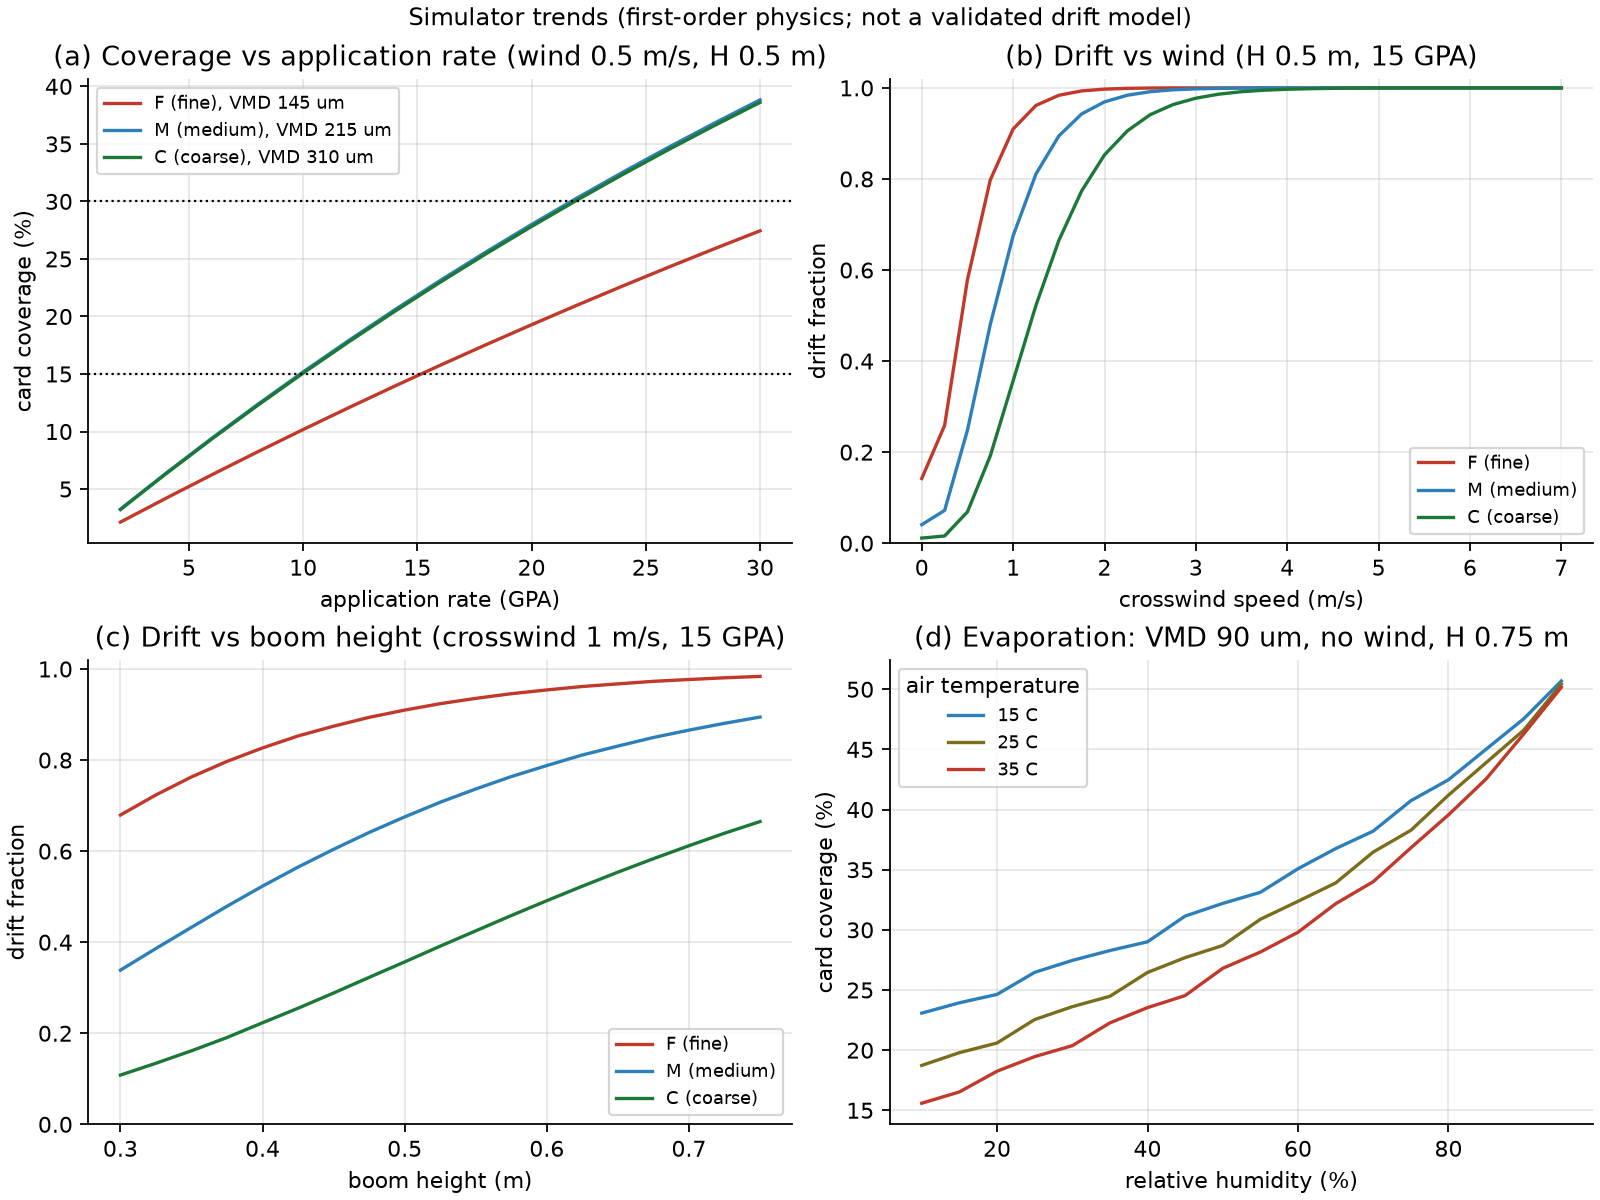
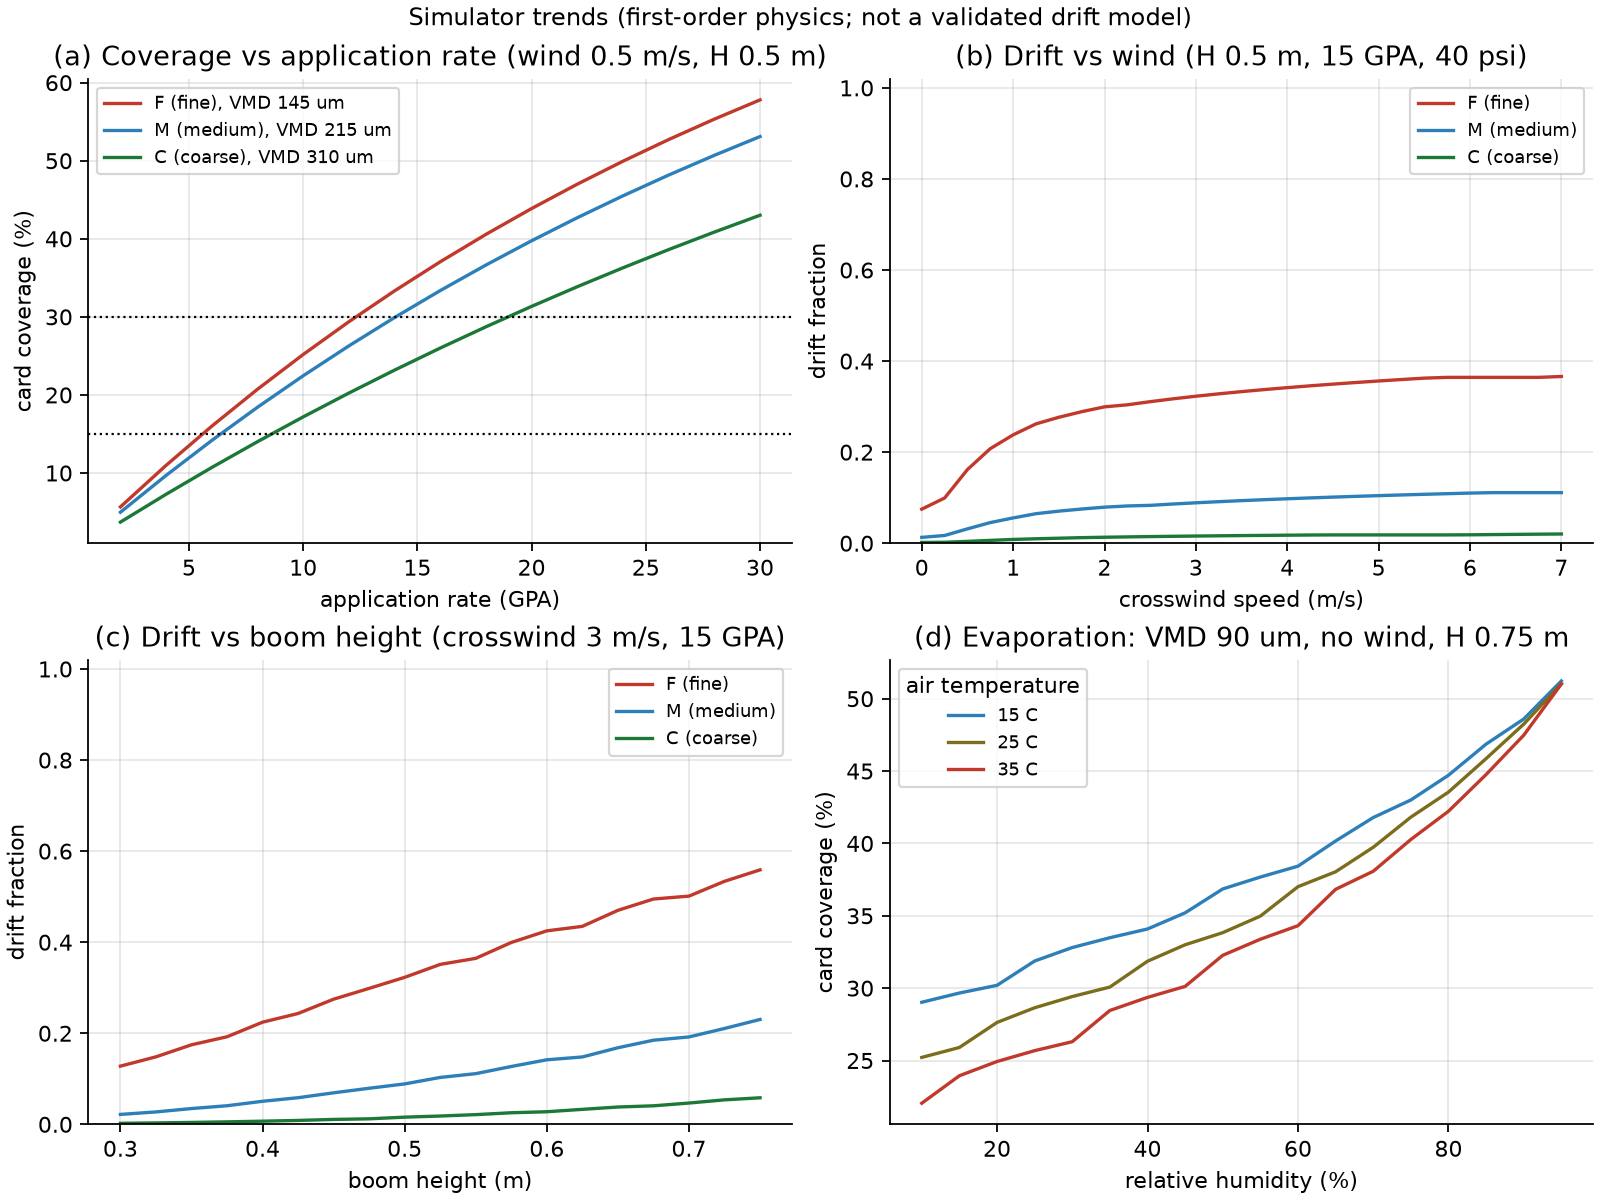
WP-02b: nozzle exit velocity with linear-drag relaxation (decision D10)
Fall time and lateral displacement from z(t), x(t) with v0 = 0.6 sqrt(2P/rho);
evaporation via penetration phase plus closed-form settling. Anchor tests,
refreshed trend figure.

diff --git a/src/coverageai/physics/drift.py b/src/coverageai/physics/drift.py
@@ -1,15 +1,91 @@
-"""Drift and pattern displacement (first-order).
+"""Drift and pattern displacement (first-order, decision D10).
 
-A droplet falling for t seconds in a steady wind is displaced x = U * t, where
-t = H / Vt (with shrinking diameter, see evaporation.py). Cross-track displacement
-x_c = U_cross t decides drift: the volume fraction with |x_c| > threshold is drift.
-The along-track component x_a = U_along t only enters the reported pattern shift.
+Droplets leave the nozzle at v0 = coeff * sqrt(2 P / rho_w) (coeff 0.6, ~14 m/s at 40 psi)
+with zero lateral velocity, and relax toward terminal velocity Vt and wind speed U under
+linear drag with time constant tau = Vt / g:
+    z(t) = Vt t + (v0 - Vt) tau (1 - exp(-t/tau))        (fall, downward)
+    x(t) = U (t - tau (1 - exp(-t/tau)))                  (lateral, per wind component)
+The fall time t_f solves z(t_f) = H (Newton, monotone). Cross-track displacement
+x_c = x(t_f) with U_cross decides drift: the volume fraction with |x_c| > threshold is
+drift. The along-track component only enters the reported pattern shift.
+Fine droplets (small tau, small v0 tau penetration) spend most of H settling at Vt and
+drift; medium and coarse droplets cross H in tens of ms and barely move.
 To avoid a staircase in the 40-bin discretization, the in/out decision is a linear
 ramp in ln(x) over each bin's own ln(x) span (exact for a locally log-linear x(d)).
 """
 from __future__ import annotations
 
 import numpy as np
+
+from coverageai.config import spec
+from coverageai.physics.droplets import terminal_velocity
+from coverageai.physics.evaporation import fall_with_evaporation
+
+PHASE_TAUS = 3.0     # near-nozzle penetration phase lasts this many tau
+
+
+def exit_velocity(pressure_psi, coeff: float, rho_w: float):
+    """Nozzle exit velocity v0 = coeff * sqrt(2 P / rho_water), m/s."""
+    return coeff * np.sqrt(2.0 * np.asarray(pressure_psi, float) * 6894.757 / rho_w)
+
+
+def fall_with_exit_velocity(d0_um, height_m, v0, lam, u_cross, u_along):
+    """Fall of droplets from the nozzle through H with exit velocity and evaporation.
+
+    Arrays broadcast to (N, B); height, v0, lam, u_* are (N, 1). Returns
+    (d_final um, t_fall s, alive, x_cross m, x_along m).
+
+    Evaporation approximation: tau and the relaxation use the initial diameter d0. If the
+    droplet reaches H inside the penetration phase (first 3 tau), the d^2 law is applied
+    over the exact fall time. Otherwise the phase is flown at d0 (diameter shrunk by the
+    d^2 law over 3 tau), and the remaining height H - z(3 tau) is settled with the exact
+    closed-form evaporating-settling solution (evaporation.fall_with_evaporation); the
+    lateral displacement is x(3 tau) plus U times the settling time (the residual 5 % of
+    the exit-velocity and wind lag at 3 tau is ignored).
+    """
+    g = spec()["physics"]["gravity_m_s2"]
+    d0 = np.asarray(d0_um, float)
+    vt = terminal_velocity(d0)
+    tau = vt / g
+    h = np.broadcast_to(np.asarray(height_m, float), d0.shape)
+    v0 = np.broadcast_to(np.asarray(v0, float), d0.shape)
+    lam = np.broadcast_to(np.asarray(lam, float), d0.shape)
+    dv = v0 - vt
+    # exact fall time without evaporation: Newton on z(t) = H, started at H / v0
+    t = h / v0
+    for _ in range(14):
+        e = np.exp(-t / tau)
+        z = vt * t + dv * tau * (1.0 - e)
+        t = np.maximum(t - (z - h) / (vt + dv * e), 1e-9)
+    t_ex = t
+
+    def lateral(u, tt):
+        return u * (tt - tau * (1.0 - np.exp(-tt / tau)))
+
+    t3 = PHASE_TAUS * tau
+    e3 = np.exp(-PHASE_TAUS)
+    z3 = vt * t3 + dv * tau * (1.0 - e3)
+    in_phase = z3 >= h
+
+    # A: reaches H within the penetration phase
+    d_a2 = d0 * d0 - lam * t_ex
+    alive_a = d_a2 > 1.0
+    d_a = np.sqrt(np.maximum(d_a2, 0.0))
+    # B: penetration phase, then evaporating settling over the remaining height
+    d1_2 = d0 * d0 - lam * t3
+    alive_1 = d1_2 > 1.0
+    d1 = np.sqrt(np.maximum(d1_2, 1.0))
+    h_rem = np.where(in_phase, 1.0, h - z3)
+    d_b, t_s, alive_b = fall_with_evaporation(d1, h_rem, lam)
+    t_b = t3 + t_s
+
+    d_f = np.where(in_phase, np.where(alive_a, d_a, 0.0), np.where(alive_1 & alive_b, d_b, 0.0))
+    alive = np.where(in_phase, alive_a, alive_1 & alive_b)
+    t_f = np.where(in_phase, t_ex, t_b)
+    uc, ua = np.asarray(u_cross, float), np.asarray(u_along, float)
+    x_c = np.where(in_phase, lateral(uc, t_ex), lateral(uc, t3) + uc * t_s)
+    x_a = np.where(in_phase, lateral(ua, t_ex), lateral(ua, t3) + ua * t_s)
+    return d_f, t_f, alive, x_c, x_a
 
 
 def in_range_fraction(x_cross, threshold_m: float):

diff --git a/src/coverageai/simulator.py b/src/coverageai/simulator.py
@@ -4,8 +4,9 @@ Pipeline per segment (first-order, fit to published trends; NOT a validated drif
   1. Derived (flow, application rate, VMD, wind components) from ``derive_fn``.
   2. Hidden mismatch applied: gust factor on wind, canopy interception, nozzle wear.
   3. Log-normal volume spectrum around VMD, 40 equal-ln(d) bins (physics/droplets.py).
-  4. Fall through boom height H with d^2-law evaporation (physics/evaporation.py);
-     displacement x = U t_fall; drift = out-of-range volume + evaporated volume
+  4. Fall through boom height H from nozzle exit velocity v0 with linear-drag relaxation
+     and d^2-law evaporation (physics/drift.py, physics/evaporation.py); lateral
+     displacement x(t_f) relaxes toward U; drift = out-of-range volume + evaporated volume
      (physics/drift.py).
   5. Deposition D = GPA * wear * (1 - drift_frac) * canopy_eta, split by bin.
   6. Boolean-model coverage with spread factor SF ~ U(spread_factor) (physics/coverage.py).
@@ -45,7 +46,8 @@ from coverageai.contracts import (Conditions, Derived, DropletSample, MismatchLe
 from coverageai.physics import coverage as cov_mod
 from coverageai.physics import drift as drift_mod
 from coverageai.physics.droplets import lognormal_volume_bins, sigma_from_span
-from coverageai.physics.evaporation import evaporation_lambda, fall_with_evaporation
+from coverageai.physics.drift import exit_velocity, fall_with_exit_velocity
+from coverageai.physics.evaporation import evaporation_lambda
 
 
 def _default_derive() -> Callable[[Conditions, Setting], Derived]:
@@ -151,15 +153,15 @@ class SpraySimulator:
         return g, eta, ff, vf
 
     # ------------------------------------------------------------ core
-    def _core(self, vmd, gpa, u_cross, u_along, height, temp, rh, eta, sf):
+    def _core(self, vmd, gpa, u_cross, u_along, height, temp, rh, eta, sf, p_psi):
         """Vectorized over N segments. Returns dict of arrays plus per-bin arrays."""
         p = self.p
         thr = float(p["drift_threshold_m"])
         d0, w, dln = lognormal_volume_bins(vmd, self.sigma_ln, self.n_bins)
         lam = evaporation_lambda(temp, rh, p["evaporation_lambda_coeff"])[:, None]
-        d_f, t_fall, alive = fall_with_evaporation(d0, height[:, None], lam)
-        x_c = u_cross[:, None] * t_fall
-        x_a = u_along[:, None] * t_fall
+        v0 = exit_velocity(p_psi, p["exit_velocity_coeff"], p["water_density_kg_m3"])[:, None]
+        d_f, _, alive, x_c, x_a = fall_with_exit_velocity(
+            d0, height[:, None], v0, lam, u_cross[:, None], u_along[:, None])
         inr = drift_mod.in_range_fraction(x_c, thr)
         frac_dep = w[None, :] * inr * alive * (d_f / d0) ** 3     # emitted-volume fraction
         drift_frac = np.clip(1.0 - frac_dep.sum(axis=1), 0.0, 1.0)
@@ -180,7 +182,7 @@ class SpraySimulator:
                 np.array([d.u_cross_ms * hid.gust_mult]),
                 np.array([d.u_along_ms * hid.gust_mult]),
                 np.array([x.boom_height_m]), np.array([x.temp_c]), np.array([x.rh_pct]),
-                np.array([hid.canopy_eta]), np.array([sf]))
+                np.array([hid.canopy_eta]), np.array([sf]), np.array([u.pressure_psi]))
 
     # ------------------------------------------------------------ public API
     def simulate(self, x: Conditions, u: Setting, rng: np.random.Generator,
@@ -219,6 +221,7 @@ class SpraySimulator:
         uc = np.array([d.u_cross_ms for d in ders])
         ua = np.array([d.u_along_ms for d in ders])
         h = np.array([x.boom_height_m for x in xs])
+        pr = np.array([u.pressure_psi for u in us])
         t = np.array([x.temp_c for x in xs])
         rh = np.array([x.rh_pct for x in xs])
         g, eta, ff, vf = self._draw_hidden_batch(n, rng, mismatch)
@@ -228,7 +231,7 @@ class SpraySimulator:
         for a in range(0, n, chunk):
             s = slice(a, min(a + chunk, n))
             r = self._core(vmd[s] * vf[s], gpa[s] * ff[s], uc[s] * g[s], ua[s] * g[s],
-                           h[s], t[s], rh[s], eta[s], sf[s])
+                           h[s], t[s], rh[s], eta[s], sf[s], pr[s])
             for k in keys:
                 out[k][s] = r[k]
         return {"coverage_pct": out["coverage"], "deposition_ul_cm2": out["deposition"],

diff --git a/tests/test_simulator.py b/tests/test_simulator.py
@@ -156,6 +156,52 @@ def test_drift_decreases_with_coarser_class():
     assert all(b < a for a, b in zip(d, d[1:]))
 
 
+def test_anchor_crosswind_drift_by_class():
+    """Decision D10 targets: 15 GPA, 2 m/s crosswind, H 0.5 m, 25 C / 50 % RH, 40 psi."""
+    def at(c):
+        sim = make_sim(vmd=VMD_CENTER[c], flow_gpm=0.4)      # 15.1 GPA at 12.7 km/h
+        return [run(sim, cond(2.0), s) for s in range(6)], sim
+    o_f, _ = at("F")
+    o_m, sim_m = at("M")
+    o_c, _ = at("C")
+    d = lambda o: float(np.mean([r.drift_frac for r in o]))  # noqa: E731
+    assert 0.10 <= d(o_f) <= 0.35
+    assert 0.02 <= d(o_m) <= 0.15
+    assert d(o_c) < 0.05
+    calm = np.mean([run(sim_m, cond(0.0), s).coverage_pct for s in range(6)])
+    assert abs(np.mean([r.coverage_pct for r in o_m]) - calm) <= 5.0
+
+
+def test_exit_velocity_reduces_drift_at_higher_pressure():
+    sim = make_sim(vmd=VMD_CENTER["F"])
+    d = [sim.simulate(cond(2.0), Setting("XR", "04", p), np.random.default_rng(1)).drift_frac
+         for p in (20.0, 40.0, 60.0, 90.0)]
+    assert all(b < a for a, b in zip(d, d[1:]))
+
+
+def test_fine_droplet_drift_grows_with_T_down_RH_in_wind():
+    sim = make_sim(vmd=VMD_CENTER["F"])
+    hot = run(sim, cond(2.0, t=38.0, rh=15.0)).drift_frac
+    cool = run(sim, cond(2.0, t=20.0, rh=70.0)).drift_frac
+    assert hot > cool
+
+
+def test_fall_with_exit_velocity_limits():
+    from coverageai.physics.drift import fall_with_exit_velocity
+    from coverageai.physics.droplets import terminal_velocity
+    d = np.array([[30.0, 100.0, 300.0]])
+    h, v0, lam = np.array([[0.5]]), np.array([[14.0]]), np.array([[0.0]])
+    _, t, alive, xc, xa = fall_with_exit_velocity(d, h, v0, lam, np.array([[2.0]]), np.array([[0.0]]))
+    assert alive.all() and np.all(xa == 0)
+    assert np.all(np.diff(t[0]) < 0) and np.all(np.diff(xc[0]) < 0)      # coarser: faster, less drift
+    # v0 = Vt: fall is plain settling t = H / Vt, lateral lag x = U (t - tau (1 - exp(-t/tau)))
+    vt = terminal_velocity(d)
+    _, t2, _, xc2, _ = fall_with_exit_velocity(d, h, vt[:, :1] * 0 + vt, lam, np.array([[2.0]]), np.array([[0.0]]))
+    tau = vt / 9.81
+    assert np.allclose(t2, 0.5 / vt, rtol=1e-6)
+    assert np.allclose(xc2, 2.0 * (t2 - tau * (1 - np.exp(-t2 / tau))), rtol=1e-6)
+
+
 def test_coverage_decreases_with_wind_and_displacement_grows():
     sim = make_sim(vmd=VMD_CENTER["C"])
     c = [run(sim, cond(u)).coverage_pct for u in (0.0, 1.0, 2.0, 4.0)]
@@ -177,8 +223,8 @@ def test_min_detectable_cutoff():
     sim = make_sim(vmd=60.0)
     o = run(sim, cond(0.0))
     assert o.stains_per_cm2 > 0
-    # nothing >= 50 um survives for a 15 um VMD spray
-    assert run(make_sim(vmd=15.0), cond(0.0)).stains_per_cm2 < 1.0
+    # a 8 um VMD spray has no droplets >= 50 um (max bin 8*exp(3.5 s) = 38 um)
+    assert run(make_sim(vmd=8.0), cond(0.0)).stains_per_cm2 < 1e-6
 
 
 # ------------------------------------------------------------------ mismatch
@@ -277,7 +323,7 @@ def test_hidden_realization_independent_of_candidate():
     Derived see the same hidden realization even if the other setting draws differ."""
     sim = make_sim()
     base = sim.simulate(cond(1.5), Setting("A", "01", 30.0), np.random.default_rng([4, 2]), "high")
-    other = sim.simulate(cond(1.5), Setting("B", "09", 55.0), np.random.default_rng([4, 2]), "high")
+    other = sim.simulate(cond(1.5), Setting("B", "09", 30.0), np.random.default_rng([4, 2]), "high")
     assert base == other           # stub catalog ignores u: only u-independent draws could differ
     # and the draws themselves: hidden state from the same rng is identical across u
     h1, sf1 = sim._draw_segment(np.random.default_rng([4, 2]), "high")

diff --git a/experiments/sim_trends.py b/experiments/sim_trends.py
@@ -71,16 +71,16 @@ def main() -> None:
         ax[0, 1].plot(winds, [mean_of(sim, cond(u), "drift_frac") for u in winds],
                       color=COLORS[name], label=name)
     ax[0, 1].set(xlabel="crosswind speed (m/s)", ylabel="drift fraction",
-                 title="(b) Drift vs wind (H 0.5 m, 15 GPA)", ylim=(0, 1.02))
+                 title="(b) Drift vs wind (H 0.5 m, 15 GPA, 40 psi)", ylim=(0, 1.02))
     ax[0, 1].legend(fontsize=8)
 
     heights = np.linspace(0.30, 0.75, 19)
     for name, vmd in CLASSES.items():
         sim = make_sim(vmd, 15.0)
-        ax[1, 0].plot(heights, [mean_of(sim, cond(1.0, h=h), "drift_frac") for h in heights],
+        ax[1, 0].plot(heights, [mean_of(sim, cond(3.0, h=h), "drift_frac") for h in heights],
                       color=COLORS[name], label=name)
     ax[1, 0].set(xlabel="boom height (m)", ylabel="drift fraction",
-                 title="(c) Drift vs boom height (crosswind 1 m/s, 15 GPA)", ylim=(0, 1.02))
+                 title="(c) Drift vs boom height (crosswind 3 m/s, 15 GPA)", ylim=(0, 1.02))
     ax[1, 0].legend(fontsize=8)
 
     rhs = np.linspace(10, 95, 18)

diff --git a/Docs/ai_usage_log.md b/Docs/ai_usage_log.md
@@ -11,3 +11,4 @@ The course permits AI use. Each line records one AI-assisted work session.
 | 2026-10-18 | WP-06 | Claude Sonnet | feedback.py (eq. 3 bias, per-regime, warm-up, clip), loop.py (run_pass, oracle wrapper, slow loop, logs/summary), e2e rewired to loop, tests |
 | 2026-10-18 | WP-05 | Claude Sonnet 5.5 | Zenodo investigation of the Simoes 2025 dataset, `vision/real_data.py` loader (download, YOLOv8-polygon rasterization, tiling, summary CLI), tests, example figure, decision D9, draft email to authors |
 | 2026-10-18 | WP-02 | Claude Sonnet 5.5 | physics/ (droplets, evaporation, drift, coverage), simulator.py (SpraySimulator, begin_pass, simulate_batch), tests/test_simulator.py, experiments/sim_trends.py + figure |
+| 2026-10-18 | WP-02b | Claude Sonnet 5.5 | Exit-velocity + linear-drag relaxation in physics/drift.py (decision D10), anchor tests, refreshed sim_trends.png |
